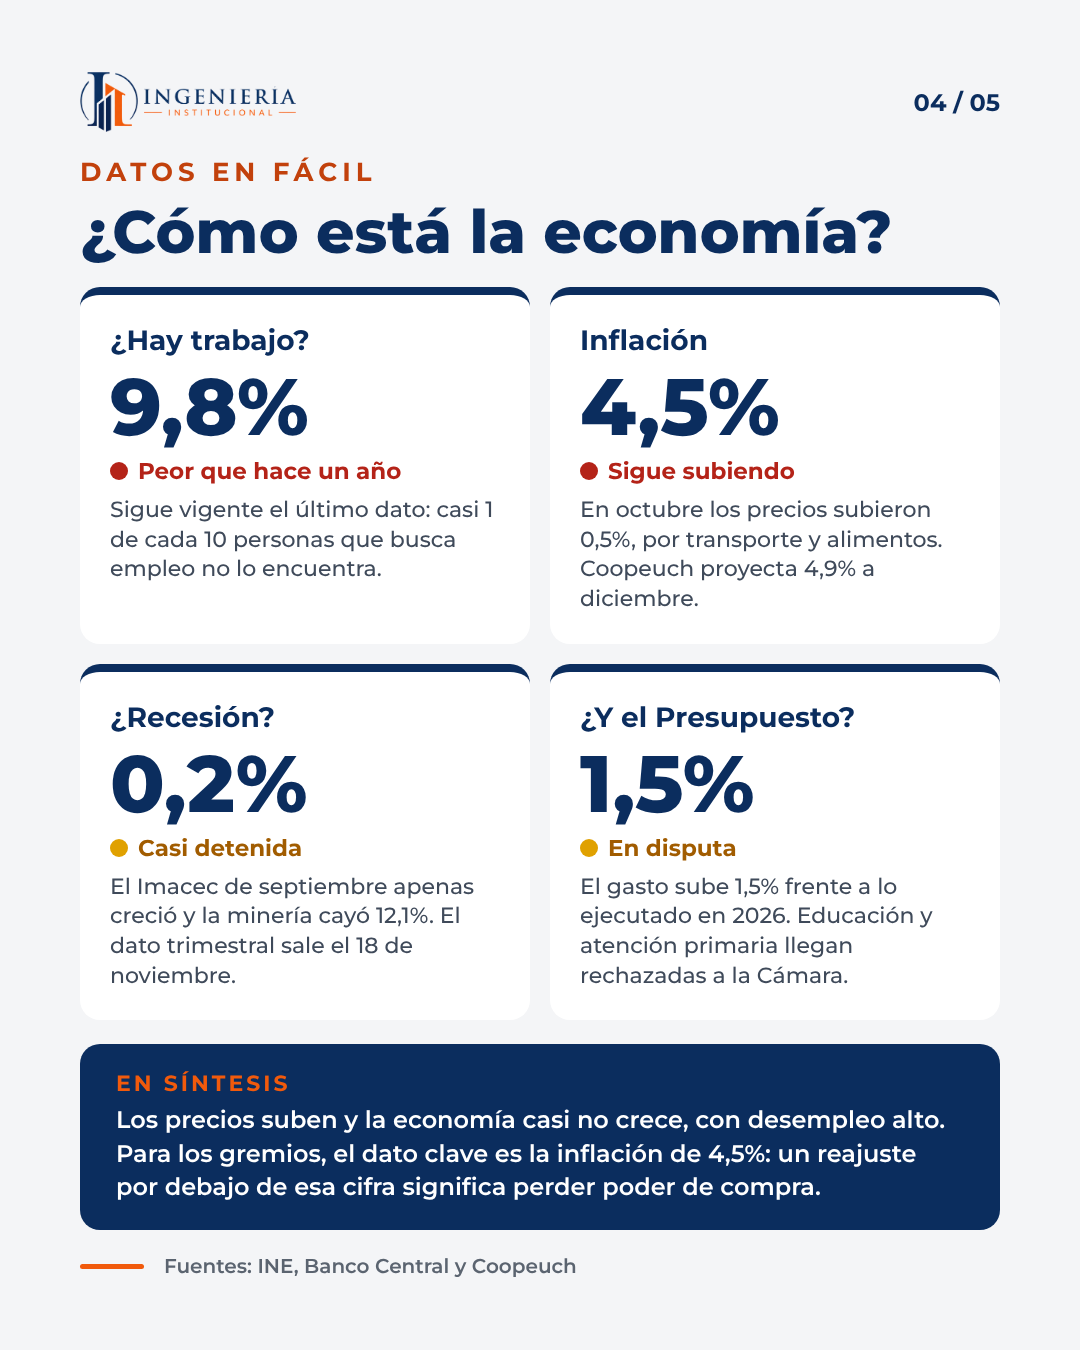
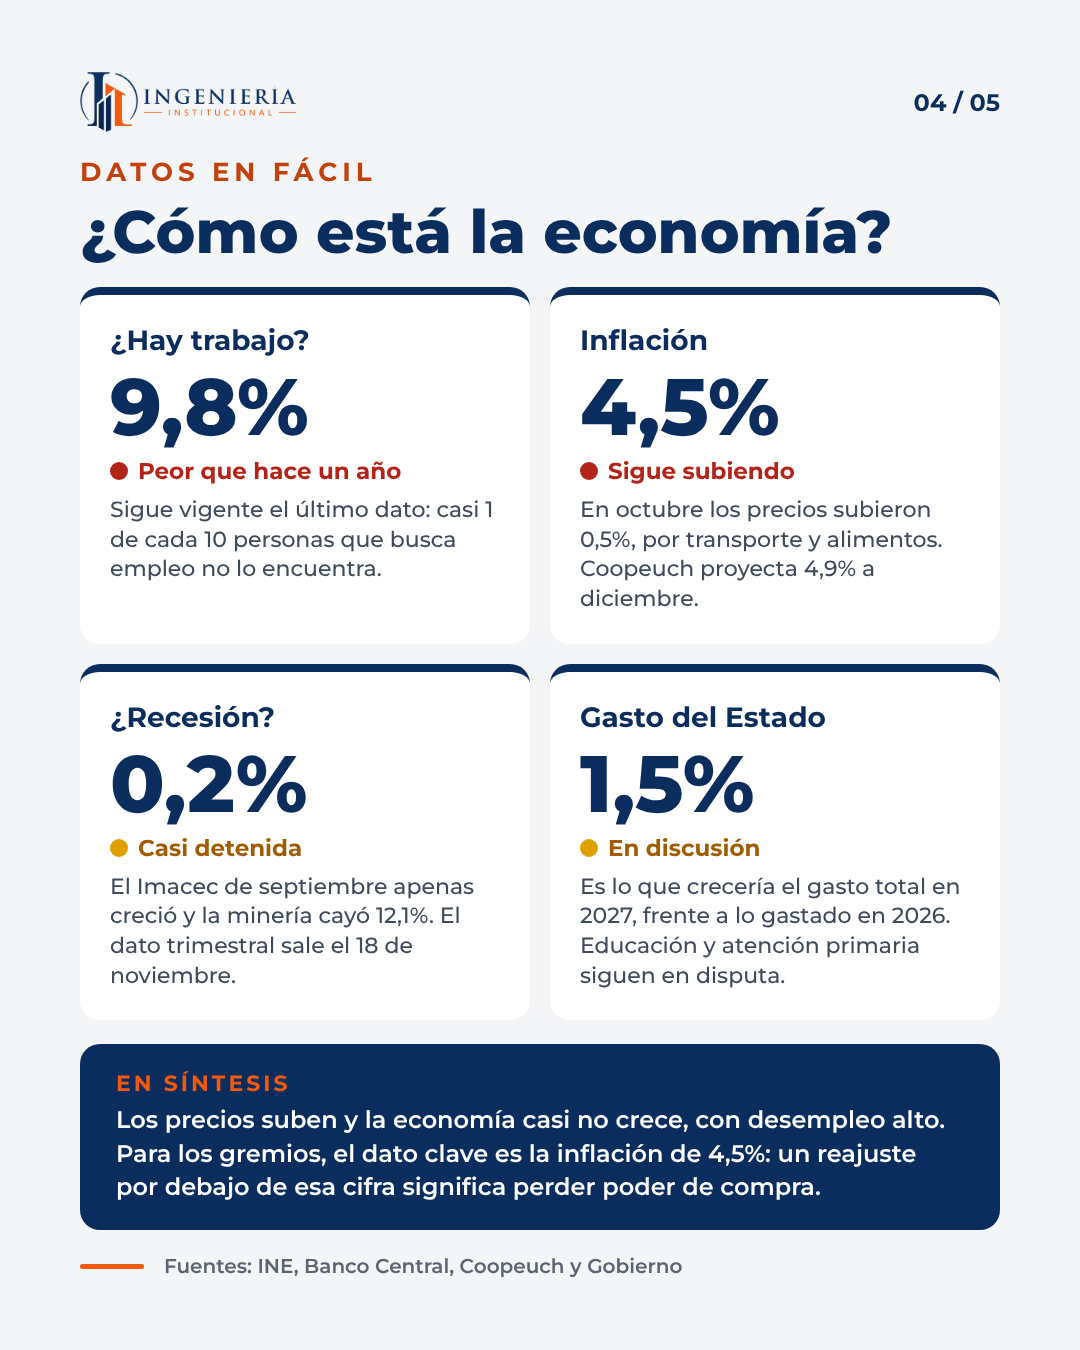
Borrador 9 de noviembre: pasa a Edición N° 1 y aclara indicador de gasto

Changed region(s): [[0.5194, 0.6222, 0.8861, 0.7467], [0.5194, 0.5289, 0.7944, 0.56], [0.4278, 0.9333, 0.6111, 0.9644]]

diff --git a/ediciones/2026-11-09/carrusel/index.html b/ediciones/2026-11-09/carrusel/index.html
@@ -1,13 +1,13 @@
 <!doctype html>
 <html lang="es"><head><meta charset="utf-8"><meta name="viewport" content="width=device-width, initial-scale=1">
-<title>Carrusel N° 2 · Informe de Contingencia</title>
+<title>Carrusel N° 1 · Informe de Contingencia</title>
 <link rel="stylesheet" href="../../../assets/fonts.css">
 <style>body{margin:0;background:#F4F5F7;color:#0B2D5E;font-family:Montserrat,system-ui,sans-serif;padding:24px}
 main{max-width:1100px;margin:0 auto}h1{font-size:1.5rem}a{color:#C2410C;font-weight:700}
 .grid{display:grid;gap:20px;grid-template-columns:repeat(auto-fit,minmax(min(100%,300px),1fr))}
 figure{margin:0;background:#fff;border-radius:12px;padding:12px}img{width:100%;height:auto;display:block;border-radius:6px}figcaption{margin-top:8px;font-size:.85rem}</style></head>
 <body><main><p><a href="../../../?ed=2026-11-09">← Volver al informe</a></p>
-<h1>Carrusel · Edición N° 2 · 9 al 13 de noviembre de 2026</h1>
+<h1>Carrusel · Edición N° 1 · 9 al 13 de noviembre de 2026</h1>
 <p>Láminas de 1080 × 1350 px para Instagram, LinkedIn o WhatsApp.</p>
 <div class="grid"><figure><img src="01-portada.png" alt="01-portada" loading="lazy"><figcaption><a href="01-portada.png" download>Descargar 01-portada.png</a></figcaption></figure>
 <figure><img src="02-resumen-politico.png" alt="02-resumen-politico" loading="lazy"><figcaption><a href="02-resumen-politico.png" download>Descargar 02-resumen-politico.png</a></figcaption></figure>
